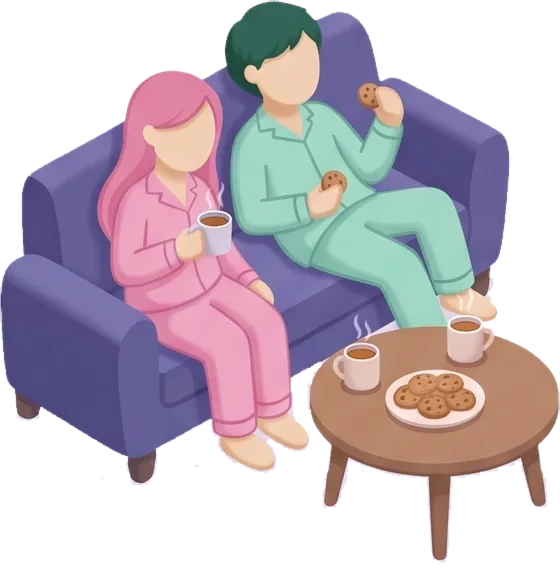
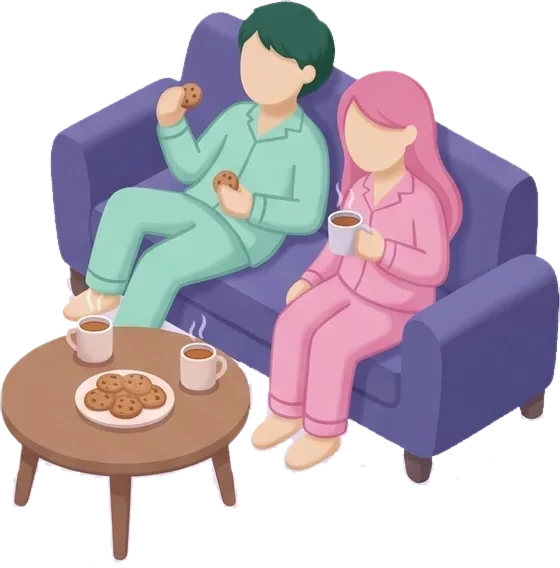
昼の場面: おやつ・おうちカフェ・お花の生け替えを左右反転、ピクニックは入れない
Claude-Session: https://claude.ai/code/session_0116inbLhgYz72u1gz15Rogf

diff --git a/docs/js/room.js b/docs/js/room.js
@@ -1,7 +1,7 @@
 // おたのしみの部屋(ファンタジー)。背景は固定で、ふたりの様子だけが変わる。
 // 夜(21時以降)は、寄り添うパターン / それまでは、別々のことをしているパターン。画面には触れない(SVGの文字列を作るだけ)。
 
-export const SCENES = { day: ['d2', 'd3', 'd4', 'd5', 'd6', 'd7', 'd8', 'd9', 'd10', 'd11', 'd12'], night: ['n1', 'n2', 'n3', 'n4'] }; // 昼の d1(SVG)は、新しい絵が届くまで、出さない。知らない名前のときの、予備として残してある
+export const SCENES = { day: ['d2', 'd3', 'd4', 'd5', 'd6', 'd8', 'd9', 'd10', 'd11', 'd12'], night: ['n1', 'n2', 'n3', 'n4'] }; // 昼の d1(SVG)は、新しい絵が届くまで、出さない。知らない名前のときの、予備として残してある
 export const isNight = (hour) => hour >= 21 || hour < 5;
 // false にすると、どの時間も夜の場面になる(昼の絵を差し替えているときなどに使う)
 export const DAY_READY = true;
@@ -48,7 +48,7 @@ const sofaFront=(x,y)=>`<rect x="${x+8}" y="${y+26}" width="128" height="42" rx=
 const pic=(k,x,y,w,h)=>`<ellipse cx="${x+w/2}" cy="${y+h-3}" rx="${w*.46}" ry="5" fill="#0a0620" opacity=".4"/><image href="img/room/${k}.webp" x="${x}" y="${y}" width="${w}" height="${h}"/>`;
 // 絵のファイルで出す場面: 名前 → [x, y, 幅, 高さ](画面360x340のなか。足元が床になるように)。
 // 足すとき: docs/img/room/<名前>.webp を置く → ここに1行 → sw.js の FILES にも書く(tests/room.test.mjs が、そろっているか見張る)
-export const PICS = { n1: [204, 210, 150, 126], n2: [212, 213, 140, 123], n3: [204, 244, 150, 92], n4: [212, 221, 140, 115], d2: [200, 186, 154, 151], d3: [198, 238, 158, 99], d4: [204, 232, 150, 103], d5: [204, 247, 150, 89], d6: [200, 181, 154, 156], d7: [200, 213, 154, 124], d8: [200, 195, 154, 142], d9: [207, 148, 147, 189], d10: [200, 199, 154, 138], d11: [222, 147, 132, 190], d12: [200, 185, 154, 152] };
+export const PICS = { n1: [204, 210, 150, 126], n2: [212, 213, 140, 123], n3: [204, 244, 150, 92], n4: [212, 221, 140, 115], d2: [200, 186, 154, 151], d3: [198, 238, 158, 99], d4: [204, 232, 150, 103], d5: [204, 247, 150, 89], d6: [200, 181, 154, 156], d8: [200, 195, 154, 142], d9: [207, 148, 147, 189], d10: [200, 199, 154, 138], d11: [222, 147, 132, 190], d12: [200, 185, 154, 152] };
 const S={
  // 昼の d1(SVG)。PICS に d1 を足せば、絵のほうが優先される
  d1:()=>`<g transform="translate(150 196)"><rect x="-12" y="-8" width="26" height="30" rx="10" fill="${PK}"/>${face(1,-24,'h',-10,'open')}<path d="M10 4l12 14" stroke="${PK}" stroke-width="5" stroke-linecap="round"/></g>${sofaBack(206,290)}<rect x="270" y="252" width="40" height="46" rx="12" fill="${MN}"/>${face(290,240,'y',4,'open')}<rect x="276" y="270" width="30" height="20" rx="3" fill="#fff7e6" stroke="#caa"/><path d="M291 270v20" stroke="#caa"/>${sofaFront(206,290)}`,

diff --git a/docs/sw.js b/docs/sw.js
@@ -1,9 +1,9 @@
 // 画面のファイルだけを保存する。通信(天気・Firebase)には触れない。
-const CACHE = 'shell-v111';
+const CACHE = 'shell-v112';
 const FILES = [
   './', 'index.html', 'css/style.css', 'css/moon.css', 'css/shelf.css', 'css/ticket.css', 'css/diary.css', 'manifest.webmanifest',
   'js/app.js', 'js/crypto.js', 'js/cities.js', 'js/weather.js', 'js/emoji.js', 'js/cycle.js', 'js/card.js', 'js/share.js', 'js/qa.js', 'js/dates.js', 'js/export.js', 'js/news.js', 'js/moon.js', 'js/moonlogic.js', 'js/demo-boot.js', 'js/chara.js', 'js/similar.js', 'js/hitorigoto.js', 'js/shelf.js', 'js/ticket.js', 'js/diary.js', 'js/anniv.js', 'js/tags.js', 'img/anniv/2026-10-27.webp', 'js/room.js', 'js/config.js', 'js/store.js',
-  'img/leather.webp', 'img/moon1.webp', 'img/moon2.webp', 'img/moon3.webp', 'img/moon4.webp', 'img/moon5.webp', 'img/room/n1.webp', 'img/room/n2.webp', 'img/room/n3.webp', 'img/room/n4.webp', 'img/room/d2.webp', 'img/room/d3.webp', 'img/room/d4.webp', 'img/room/d5.webp', 'img/room/d6.webp', 'img/room/d7.webp', 'img/room/d8.webp', 'img/room/d9.webp', 'img/room/d10.webp', 'img/room/d11.webp', 'img/room/d12.webp', 'img/room/book.webp', 'icons/icon-192.png', 'icons/icon-512.png', 'icons/icon-180.png', 'icons/icon-maskable-192.png', 'icons/icon-maskable-512.png', 'robots.txt',
+  'img/leather.webp', 'img/moon1.webp', 'img/moon2.webp', 'img/moon3.webp', 'img/moon4.webp', 'img/moon5.webp', 'img/room/n1.webp', 'img/room/n2.webp', 'img/room/n3.webp', 'img/room/n4.webp', 'img/room/d2.webp', 'img/room/d3.webp', 'img/room/d4.webp', 'img/room/d5.webp', 'img/room/d6.webp', 'img/room/d8.webp', 'img/room/d9.webp', 'img/room/d10.webp', 'img/room/d11.webp', 'img/room/d12.webp', 'img/room/book.webp', 'icons/icon-192.png', 'icons/icon-512.png', 'icons/icon-180.png', 'icons/icon-maskable-192.png', 'icons/icon-maskable-512.png', 'robots.txt',
 ];
 
 self.addEventListener('install', (e) => {

diff --git a/docs/js/app.js b/docs/js/app.js
@@ -41,7 +41,7 @@ const K = {
   key: 'app.key', name: 'app.name', seq: 'app.seq', salt: 'app.salt',
   auto: 'app.auto', expire: 'app.expire', city: 'app.city', card: 'app.card', theme: 'app.theme', patSeen: 'app.patSeen', patShown: 'app.patShown', bd: 'app.bd', talk: 'app.talk', rcpt: 'app.rcpt', seen: 'app.seen', role: 'app.role', moonSeen: 'app.moonSeen', moodAsk: 'app.moodAsk', sayLast: 'app.sayLast', sayMorning: 'app.sayMorning', fullSeen: 'app.fullSeen', roomLast: 'app.roomLast', diaryAt: 'app.diaryAt', opens: 'app.opens', tagHide: 'app.tagHide',
 };
-const VERSION = '2026.10.27-122';
+const VERSION = '2026.10.27-123';
 
 // 調子(新月 → 満月)と気分のタグ
 const LEVELS = [['しんどい', 1], ['いまいち', 2], ['ふつう', 3], ['まあまあ', 4], ['元気', 5]];
